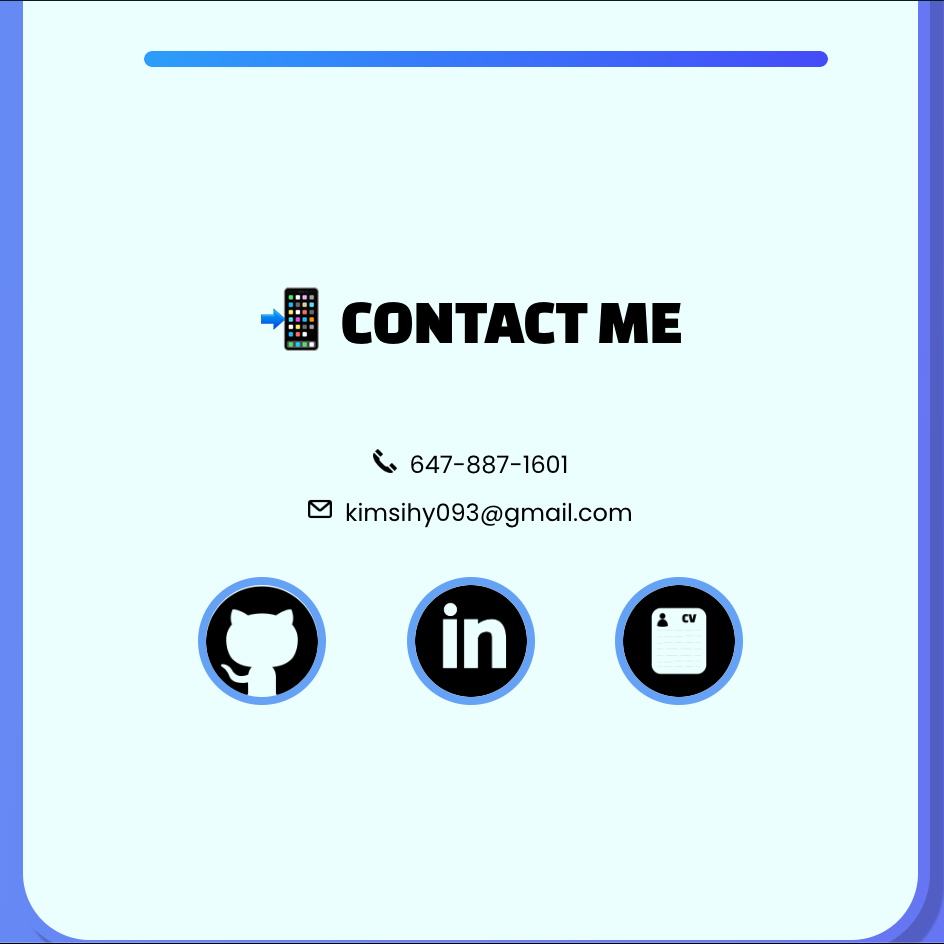
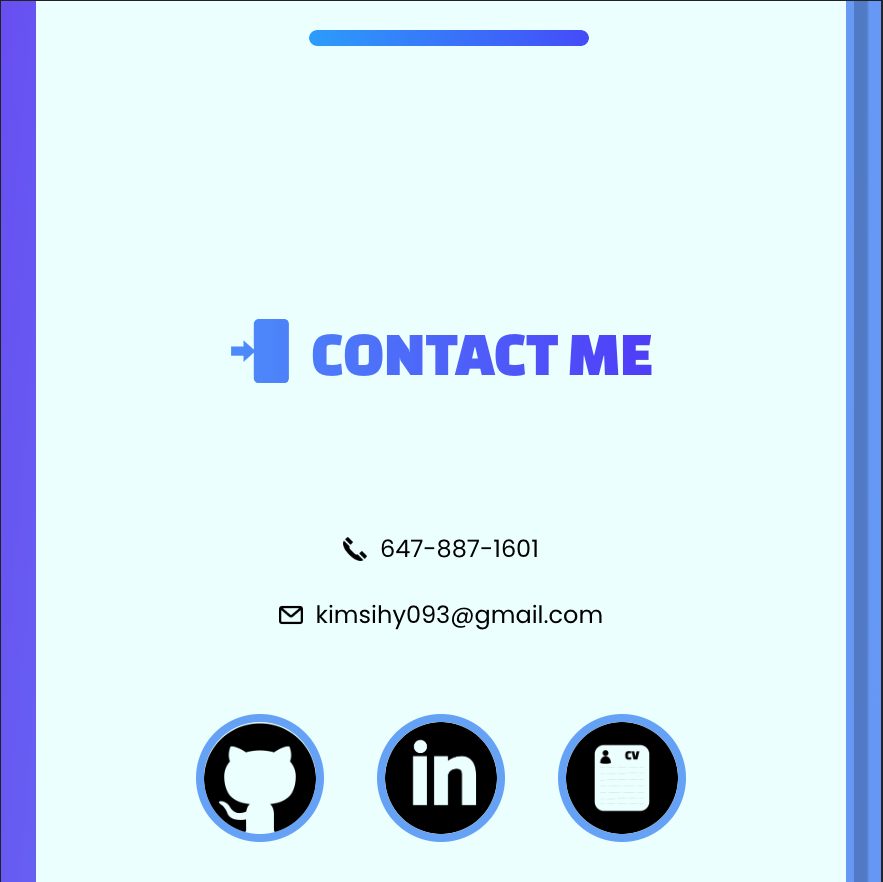
images changed

diff --git a/src/components/pages/ContactMe/ContactMe.scss b/src/components/pages/ContactMe/ContactMe.scss
@@ -9,12 +9,10 @@
 	h1 {
 		display: inline-block;
 		text-align: center;
-		padding-left: min(5vw, 5rem);
-		padding-right: min(5vw, 5rem);
+		padding: 0 min(5vw, 5rem) min(10vw, 5rem) min(5vw, 5rem);
 		font-family: $title-font;
 		font-size: $title-size;
 		line-height: min(10.5vw, 5rem);
-		padding-bottom: min(10vw, 5rem);
 	}
 	.social-media {
 		text-align: center;
@@ -30,26 +28,31 @@
 }
 
 .contact-info {
-	display: inline-block;
-	text-align: center;
-	padding-left: min(5vw, 5rem);
-	padding-right: min(5vw, 5rem);
+	display: flex;
+	flex-direction: column;
+	align-items: center;
+	padding: 0 min(5vw, 5rem);
 	font-family: $text-font;
 	font-size: $text-size;
 	line-height: $text-height;
-	img {
-		height: min(4.3vw, 1.5rem);
-		pointer-events: none;
-	}
-	a {
-		transition: all 0.7s ease-out;
-		text-decoration: none;
-		color: #000;
-		&:hover {
+	.contact {
+		display: flex;
+		align-items: center;
+		img {
+			height: min(4.3vw, 1.5rem);
+			pointer-events: none;
+		}
+		a {
 			transition: all 0.7s ease-out;
-			box-shadow: inset 0 0 0 30px #000, 0 0 0 5px #000;
-			border-radius: 5%;
-			color: rgb(202, 251, 255);
+			text-decoration: none;
+			color: #000;
+			margin: 1vh 0;
+			&:hover {
+				transition: all 0.7s ease-out;
+				box-shadow: inset 0 0 0 30px #000, 0 0 0 5px #000;
+				border-radius: 1rem;
+				color: rgb(202, 251, 255);
+			}
 		}
 	}
 }

diff --git a/src/components/pages/Projects/Descriptions/Portfolio.jsx b/src/components/pages/Projects/Descriptions/Portfolio.jsx
@@ -1,5 +1,5 @@
 import Project from "./Project";
-import { PortfolioFirst, PortfolioSecond, PortfolioThird, PortfolioFourth, PortfolioFive } from '../../../../assets/ProjectImages';
+import { PortfolioFirst, PortfolioSecond, PortfolioThird, PortfolioFourth, PortfolioFive, PortfolioSix } from '../../../../assets/ProjectImages';
 
 const NewPortfolio = () => {
     return (
@@ -13,7 +13,8 @@ const NewPortfolio = () => {
                 PortfolioSecond, 
                 PortfolioThird, 
                 PortfolioFourth,
-                PortfolioFive
+                PortfolioFive,
+                PortfolioSix
             ]}
             link="https://skim1601.com"
             github="https://github.com/skim1601/sean-kim-website"

diff --git a/src/assets/ProjectImages/index.js b/src/assets/ProjectImages/index.js
@@ -3,6 +3,7 @@ export const PortfolioSecond = require('./PortfolioImages/Portfolio-image2.png')
 export const PortfolioThird = require('./PortfolioImages/Portfolio-image3.png');
 export const PortfolioFourth = require('./PortfolioImages/Portfolio-image4.png');
 export const PortfolioFive = require('./PortfolioImages/Portfolio-image5.png');
+export const PortfolioSix = require('./PortfolioImages/Portfolio-image6.png');
 export const ReversiFirst = require('./ReversiImages/Reversi-image1.png');
 export const ReversiSecond = require('./ReversiImages/Reversi-image2.png');
 export const ReversiThird = require('./ReversiImages/Reversi-image3.png');

diff --git a/src/components/pages/ContactMe/Sections/ContactInfo.jsx b/src/components/pages/ContactMe/Sections/ContactInfo.jsx
@@ -1,11 +1,11 @@
 const Contact = (props) => {
     return (
-        <>
+        <div className="contact">
             <img src={props.src} alt=""/>&nbsp;&nbsp;
             <a href={props.href}>
-                {props.children}<br/>
+                {props.children}
             </a>
-        </>
+        </div>
     );
 }
 
